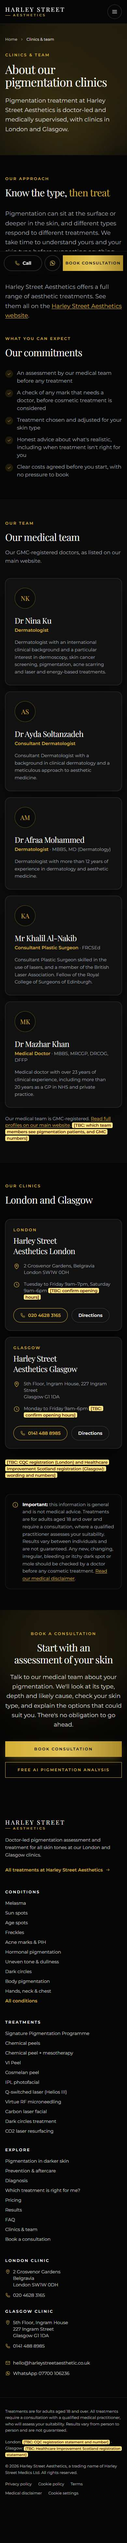
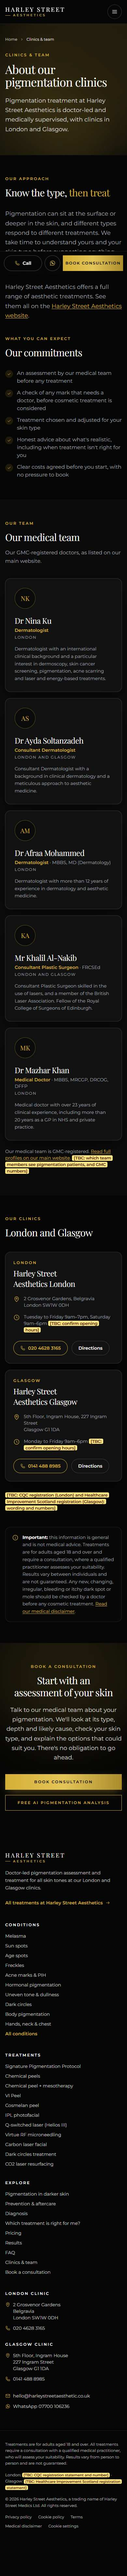
Add details from the main website: team locations, dark circles length, IPL and patch-test wording

Changed region(s): [[0.0308, 0.0, 0.9538, 0.9999], [0.4923, 0.8436, 0.5231, 0.8749]]

diff --git a/src/lib/site.ts b/src/lib/site.ts
@@ -64,37 +64,42 @@ export const CLINICS: Record<ClinicId, Clinic> = {
 
 export const CLINIC_LIST = [CLINICS.london, CLINICS.glasgow];
 
-// Medical team as listed on harleystreetaesthetic.co.uk/london/team (6 Nov 2026). Bios shortened.
+// Medical team as listed on harleystreetaesthetic.co.uk/london/team and /glasgow/team (7 Nov 2026). Bios shortened.
 // Which of them see pigmentation patients is not stated (docs/open-questions.md #15).
 export const TEAM = [
   {
     name: "Dr Nina Ku",
     post: "",
     role: "Dermatologist",
+    clinics: "London",
     bio: "Dermatologist with an international clinical background and a particular interest in dermoscopy, skin cancer screening, pigmentation, acne scarring and laser and energy-based treatments.",
   },
   {
     name: "Dr Ayda Soltanzadeh",
     post: "",
     role: "Consultant Dermatologist",
+    clinics: "London and Glasgow",
     bio: "Consultant Dermatologist with a background in clinical dermatology and a meticulous approach to aesthetic medicine.",
   },
   {
     name: "Dr Afraa Mohammed",
     post: "MBBS, MD (Dermatology)",
     role: "Dermatologist",
+    clinics: "London",
     bio: "Dermatologist with more than 12 years of experience in dermatology and aesthetic medicine.",
   },
   {
     name: "Mr Khalil Al-Nakib",
     post: "FRCSEd",
     role: "Consultant Plastic Surgeon",
+    clinics: "London and Glasgow",
     bio: "Consultant Plastic Surgeon skilled in the use of lasers, and a member of the British Laser Association. Fellow of the Royal College of Surgeons of Edinburgh.",
   },
   {
     name: "Dr Mazhar Khan",
     post: "MBBS, MRCGP, DRCOG, DFFP",
     role: "Medical Doctor",
+    clinics: "London",
     bio: "Medical doctor with over 23 years of clinical experience, including more than 20 years as a GP in NHS and private practice.",
   },
 ] as const;

diff --git a/src/lib/treatments.ts b/src/lib/treatments.ts
@@ -425,7 +425,8 @@ export const TREATMENTS: Treatment[] = [
       "Melasma, active infection, cold sores or broken skin in the area",
       "Light-triggered epilepsy or a history of keloid scarring",
     ],
-    skinTone: "IPL is not suitable for darker skin types (Fitzpatrick V–VI) or tanned skin. A carbon laser facial or a chemical peel may be recommended instead.",
+    skinTone:
+      "IPL is not suitable for darker skin types (Fitzpatrick V–VI) or tanned skin. Some people with type IV skin can be treated cautiously with conservative settings after a patch test, but that is a clinical decision made at consultation. A carbon laser facial or a chemical peel may be recommended instead.",
     onTheDay: [
       { title: "Skin typing", text: "Your clinician confirms your skin type and checks for any recent tan." },
       { title: "Protection", text: "Protective eyewear and a cooling gel are used throughout." },
@@ -620,6 +621,7 @@ export const TREATMENTS: Treatment[] = [
       "Results vary, and dark circles can return with sleep, allergies, sun exposure and age.",
     ],
     facts: [
+      { label: "Appointment", value: "45 minutes" },
       { label: "Course", value: "1 or 3 sessions" },
       { label: "Downtime", value: "Confirmed at consultation", tbc: true },
       { label: "Price", value: "From £395" },

diff --git a/src/app/diagnosis/page.tsx b/src/app/diagnosis/page.tsx
@@ -100,7 +100,7 @@ export default function DiagnosisPage() {
               </p>
               <p>
                 Where it helps, we recommend a patch test before your first full treatment, to see how your skin responds. A patch test is{" "}
-                {CONSULTATIONS.patchTest.price}. <Tbc>which treatments need a patch test, and whether the £50 is redeemable</Tbc>
+                {CONSULTATIONS.patchTest.price}. A patch test may be advised before treatments such as the Signature Protocol, peels, IPL or a carbon laser facial, particularly for darker or sensitive skin. <Tbc>whether the £50 patch test is redeemable against treatment</Tbc>
               </p>
             </div>
           </div>

diff --git a/src/components/sections.tsx b/src/components/sections.tsx
@@ -151,6 +151,7 @@ export function TeamGrid({ limit }: { limit?: number }) {
               {p.role}
               {p.post && <span className="font-normal text-stone"> · {p.post}</span>}
             </p>
+            <p className="mt-1 text-xs tracking-[0.15em] text-stone uppercase">{p.clinics}</p>
             <p className="mt-4 text-sm leading-relaxed text-stone">{p.bio}</p>
           </li>
         ))}

diff --git a/src/app/pricing/page.tsx b/src/app/pricing/page.tsx
@@ -91,7 +91,7 @@ export default function PricingPage() {
         </div>
         <div className="mt-6 space-y-2">
           <p>
-            <Tbc>which treatments need a patch test, and whether the £50 is redeemable</Tbc>
+            <Tbc>whether the £50 patch test is redeemable against treatment</Tbc>
           </p>
         </div>
       </Section>

diff --git a/docs/research.md b/docs/research.md
@@ -161,3 +161,27 @@ One more internal chat question covering every `[TBC]` item. The Copilot checked
 - **Dr Ahmad** fronts the pigmentation adverts; the protocol is "doctor-led and medically supervised by the Harley Street medical team".
 
 **Still not documented anywhere in Copilot:** standalone Helios III price/sessions/spacing/downtime; which treatments need a patch test and whether the £50 is redeemable; treat-or-refer for café-au-lait/birthmarks, vitiligo/white patches and drug/heat-induced pigmentation; Wood's lamp/dermatoscope; the £50 3D skin analysis (it's on the main website, not in Copilot); dark circles device/downtime/side effects; practitioners and GMC numbers; CQC/HIS wording and numbers; opening hours; enquiry destination; GA4/GTM/Pixel IDs; review verification and before/after consent; company name, address and ICO number. These stay as `[TBC]` and need the clinic manager.
+
+## 10. Main website re-check for missing details (7 Nov 2026, at your request)
+I rendered 22 pages of harleystreetaesthetic.co.uk in headless Chrome, with every tab and accordion opened: home, London, Glasgow, both team pages, both galleries, both contact pages, free skin consultation, finance, treatments, pricing (all tabs), and the pigmentation, Virtue RF, peel, Cosmelan, VI Peel, IPL, carbon laser and peel + mesotherapy pages. I also looked for privacy, terms and cookie pages, and recorded the analytics requests the site makes.
+
+**Found and added to the site:**
+- **Team by clinic:** /glasgow/team lists only Mr Khalil Al-Nakib and Dr Ayda Soltanzadeh. Dr Nina Ku, Dr Afraa Mohammed and Dr Mazhar Khan are London only. The team cards now show this.
+- **Dark circles:** 45 minutes a session; £395, or £995 for 3 (matches the Copilot).
+- **IPL:** "Some people with Fitzpatrick type IV skin can be treated cautiously with conservative settings after a patch test, but that is a clinical decision made at consultation." Added to the IPL skin-tone note.
+- **Patch tests:** the website mentions them for the pigmentation programme, IPL, carbon laser and peels ("where advised/appropriate"). The diagnosis page now says this. Whether the £50 is redeemable still isn't stated.
+
+**Not on the website (still `[TBC]`):**
+- Opening hours: not shown anywhere (footer, contact or clinic pages).
+- CQC / Healthcare Improvement Scotland registration: not mentioned.
+- GMC numbers: the site says "GMC-registered" but gives no numbers.
+- Company name, address and ICO number: the footer says only "© 2026 Harley Street Aesthetics". The "Privacy Policy" and "Terms of Service" links go nowhere, and /privacy-policy, /privacy, /terms and /cookie-policy return 404.
+- Tracking IDs: the site loads no GA4, GTM or Meta Pixel (only Google Maps).
+- Enquiry form destination: the contact form submits within the site's own app, and its endpoint isn't visible.
+- Before/after photos: the gallery has Endolift, dermal filler, PLACL thread and "Body & Skin" (PB Serum) results, but **no pigmentation results**.
+- Reviews: the same five undated, unverifiable review cards appear on every page; not reused.
+- Standalone Q-switched laser price, Wood's lamp or dermatoscope, and treat-or-refer for birthmarks, vitiligo and drug/heat pigmentation: not mentioned.
+
+**Conflict still open:** the website pricing page and the pigmentation page still sell the **needle-free Signature Pigmentation Programme at £349 a session (60 minutes, 2–6 sessions)**, while the Copilot says the current treatment is the VirtueRF + Helios III + mesotherapy protocol from £399. Since 7 Nov the site follows the Copilot (decision #26).
+
+**Other main-site notes:** CO2 prices are shown as "special offers" with crossed-out "was" prices (e.g. full face £999 → £799). This site shows only the current price, with no offer wording, to avoid time-pressure and reference-pricing issues under the CAP Code.

diff --git a/docs/decisions.md b/docs/decisions.md
@@ -28,3 +28,4 @@
 | 24 | 2026-11-06 | Full desktop nav shows from 1720 px (burger menu below), up from 1400 px on the hair loss site. | The extra "Darker skin" nav item and the AI analysis link made the header overflow at 1440–1536 px. |
 | 25 | 2026-11-06 | Reviews carousel component kept but empty (`src/lib/reviews.ts`); it appears automatically when verified reviews are added. | Brief asks for a carousel; no verified pigmentation reviews exist yet. |
 | 26 | 2026-11-07 | **Supersedes #6.** The Signature page now follows the Copilot: "Signature Pigmentation Protocol" (VirtueRF + Helios III laser + regenerative mesotherapy), from £399, with the Standard/Enhanced packages, Laser/Peel/VI Peel + Mesotherapy and the Enhanced VI Peel Ultimate Programme. URL changed to `/treatments/signature-pigmentation-protocol/`. Tranexamic acid isn't named (POM when injected); exosomes are described as "evidence still developing". The Signature page is no longer suggested for darker skin on the skin-of-colour page, because the playbook gives no Fitzpatrick IV–VI protocol. | You asked me to use the Copilot for the missing details, and it confirms the protocol is current and has no record of the colostrum programme. |
+| 27 | 2026-11-07 | From the main website re-check: team cards show which clinic each doctor works at; dark circles shows 45 minutes; IPL notes cautious treatment of type IV skin after a patch test; patch-test wording added. CO2 "special offer" and "was" prices not copied. | Your instruction to use the main website for missing details. Offer and was-price wording risks CAP Code time-pressure and reference-pricing rules. |

diff --git a/docs/review-checklist.md b/docs/review-checklist.md
@@ -56,6 +56,9 @@ Automated scan (`npm run check:compliance`, passes) plus a manual read of every 
 21. Privacy policy company details (Harley Street Medics Ltd, 211B Main Street, Bellshill ML4 1AJ, ICO ZB819731) come from the Endolift privacy policy. Confirm they're current.
 
 ## 3. Main-website issues spotted (not on this site)
+- **The main site still sells the old needle-free Signature Pigmentation Programme at £349**, while this site (following the Copilot) shows the VirtueRF + Helios III + mesotherapy protocol from £399. Please align them before launch.
+- The main site's footer "Privacy Policy" and "Terms of Service" links go nowhere, and /privacy-policy returns 404.
+- CO2 prices on the main site are "special offers" with crossed-out prices; check them against the CAP Code rules on reference pricing and time pressure.
 - The main site and the AI app still show 10 Harley Street.
 - Main-site treatment pages name isotretinoin; the Virtue RF page says "Zero Pain" and "Suitable for all skin tones (Fitzpatrick I–VI)".
 - The main-site reviews block ("2 days ago", "Dr. Vincent") can't be verified.

diff --git a/docs/open-questions.md b/docs/open-questions.md
@@ -40,3 +40,5 @@ Things I couldn't confirm from the Copilot, the main website or Facebook. Each o
 27. No Harley Street Medics pigmentation playbook was found in the Copilot. The only cross-brand reference is the Wellness skin brightening drip. Nothing outdated to flag there.
 
 _7 Nov 2026: I asked the Copilot about every item above. Apart from #2 and #6, it has nothing documented, so these need the clinic manager (see research.md §9)._
+
+_7 Nov 2026 (later): I also checked every relevant page of harleystreetaesthetic.co.uk (research.md §10). It adds team locations, dark-circle session length, IPL type IV guidance and patch-test wording. It has nothing on opening hours, CQC/HIS, GMC numbers, company/ICO details (its privacy and terms links are broken), tracking IDs, the form destination, pigmentation before/after photos or verified reviews. Those still need the clinic manager. It also still shows the old £349 Signature Programme._
